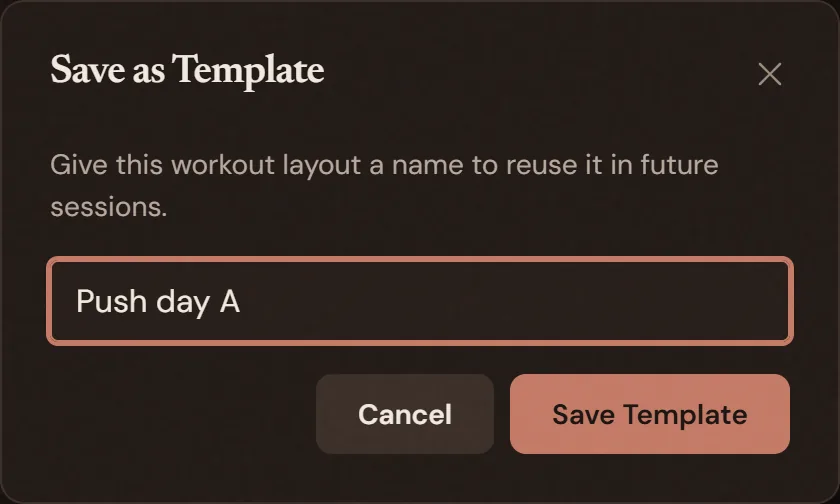
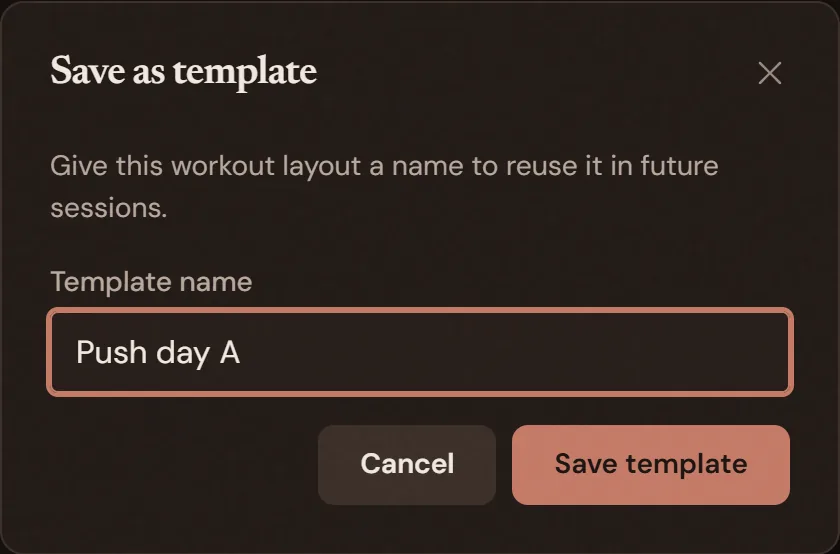
chore(guide): re-shoot the Jym workout set and save-template shots
Shot from a live workout on a temporary local account (lbs,
America/New_York), same 1280x800 at 2x as the rest of the Jym guide.
They now show "+ Add set", "+ Form check", the Exercise note label and
the "Save template" wording. Sizes and alt text updated to match.

diff --git a/jiro-ui/src/app/features/guide/jym/jym-guide.ts b/jiro-ui/src/app/features/guide/jym/jym-guide.ts
@@ -89,8 +89,8 @@ import { GUIDE } from '../shared';
           <li>The rest timer starts in the bar at the top. Choose <strong>1m</strong>, <strong>1:30</strong>, <strong>2m</strong>, <strong>3m</strong> or <strong>5m</strong>, add <strong>+30s</strong>, or select the x to skip it. It beeps when your rest is over.</li>
           <li>Use <strong>+ Add set</strong> for another set and <strong>+ Add exercise</strong> for another exercise. The x on a logged set removes it.</li>
         </guide-steps>
-        <guide-shot guide="jym" name="session-sets" [width]="1400" [height]="1098"
-          alt="Bench Press during a workout: a warm-up set of 95 lbs, four logged sets of 175 lbs with the 6-rep set marked PR, and a sixth row suggesting 175 lbs and 5 reps." />
+        <guide-shot guide="jym" name="session-sets" [width]="1400" [height]="1204"
+          alt="Bench Press during a workout: a note from last time, a warm-up set of 95 lbs, four logged sets of 175 lbs with the 6-rep set marked PR, and a sixth row suggesting 180.8 lbs and 5 reps." />
         <guide-tip>A set is a PR when it is the heaviest weight you have logged for that exercise, or the same top weight for more reps. Warm-ups are left out on both sides: they never count as a PR and never raise the bar for one. Marking a PR set as a warm-up takes its badge away.</guide-tip>
       </guide-section>
 
@@ -123,8 +123,8 @@ import { GUIDE } from '../shared';
           <li>Enter a name and select <strong>Save template</strong>.</li>
           <li>To use it, select the template under <strong>Templates</strong> on the <a routerLink="/jym">Jym</a> home page, or select <strong>Start</strong> on it in <a routerLink="/jym/plan" [queryParams]="{ tab: 'templates' }">Plan, Templates</a>.</li>
         </guide-steps>
-        <guide-shot guide="jym" name="save-template" [width]="840" [height]="504"
-          alt="The Save as Template window with the name Push day A, and Cancel and Save Template buttons." />
+        <guide-shot guide="jym" name="save-template" [width]="840" [height]="554"
+          alt="The Save as template window with the name Push day A, and Cancel and Save template buttons." />
       </guide-section>
 
       <guide-section id="run-a-series" title="Run a series"
